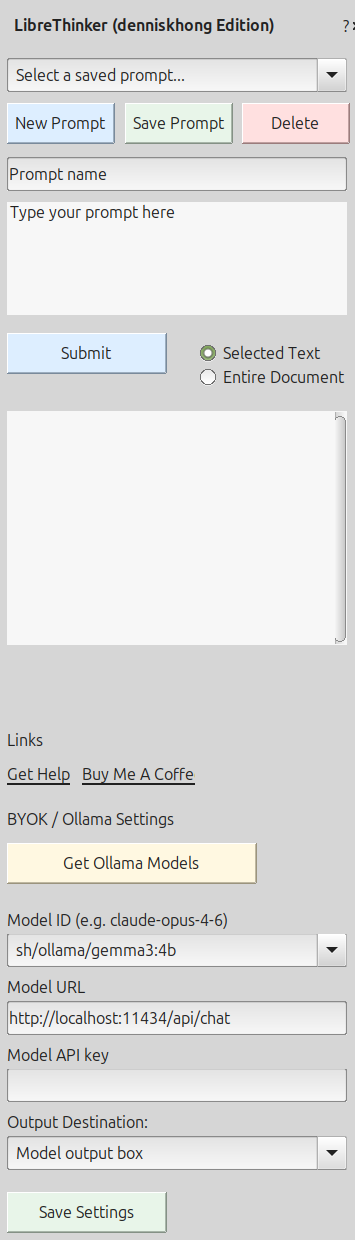
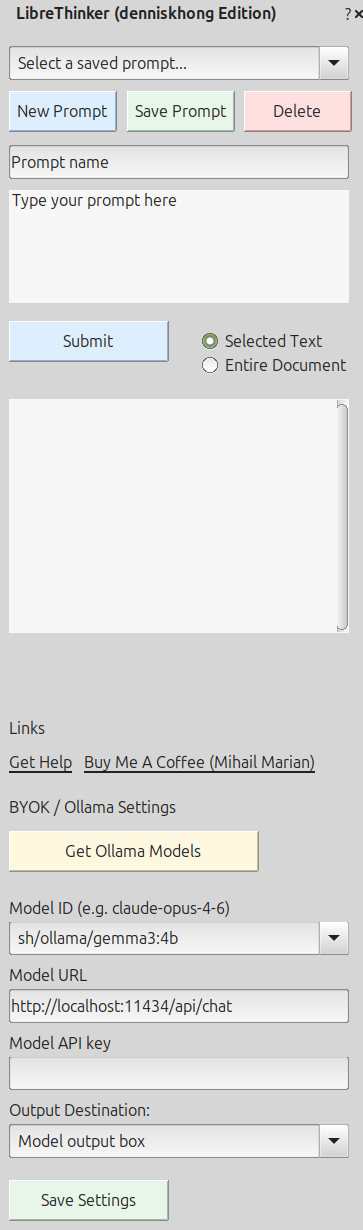
URL to fork's GitHub's repo
Change URL to fork's github repo

Changed region(s): [[0.0, 0.0, 1.0, 0.5252], [0.0, 0.587, 0.9915, 1.0]]

diff --git a/extension/src/pythonpath/ui/Panel1_UI.py b/extension/src/pythonpath/ui/Panel1_UI.py
@@ -261,7 +261,7 @@ class Panel1_UI(unohelper.Base, XActionListener, XItemListener, XFocusListener, 
         self.GetHelp.Width = 30
         self.GetHelp.Height = 10
         self.GetHelp.Label = "Get Help"
-        self.GetHelp.URL = "https://tally.so/r/jaZx41"
+        self.GetHelp.URL = "https://github.com/denniskhong/librethinker-extension"
 
         self.DialogModel.insertByName("GetHelp", self.GetHelp)
 
@@ -273,9 +273,9 @@ class Panel1_UI(unohelper.Base, XActionListener, XItemListener, XFocusListener, 
         self.BuyMeCoffee.PositionX = dialogLeftPadding + 30
         self.BuyMeCoffee.PositionY = self.LinksSectionHeading.PositionY + 15
         self.BuyMeCoffee.TabIndex = self.GetHelp.TabIndex + 1
-        self.BuyMeCoffee.Width = 45
+        self.BuyMeCoffee.Width = 136
         self.BuyMeCoffee.Height = 10
-        self.BuyMeCoffee.Label = "Buy Me A Coffee"
+        self.BuyMeCoffee.Label = "Buy Me A Coffee (Mihail Marian)"
         self.BuyMeCoffee.URL = "https://ko-fi.com/mihailmarian"
 
         self.DialogModel.insertByName("BuyMeCoffee", self.BuyMeCoffee)
